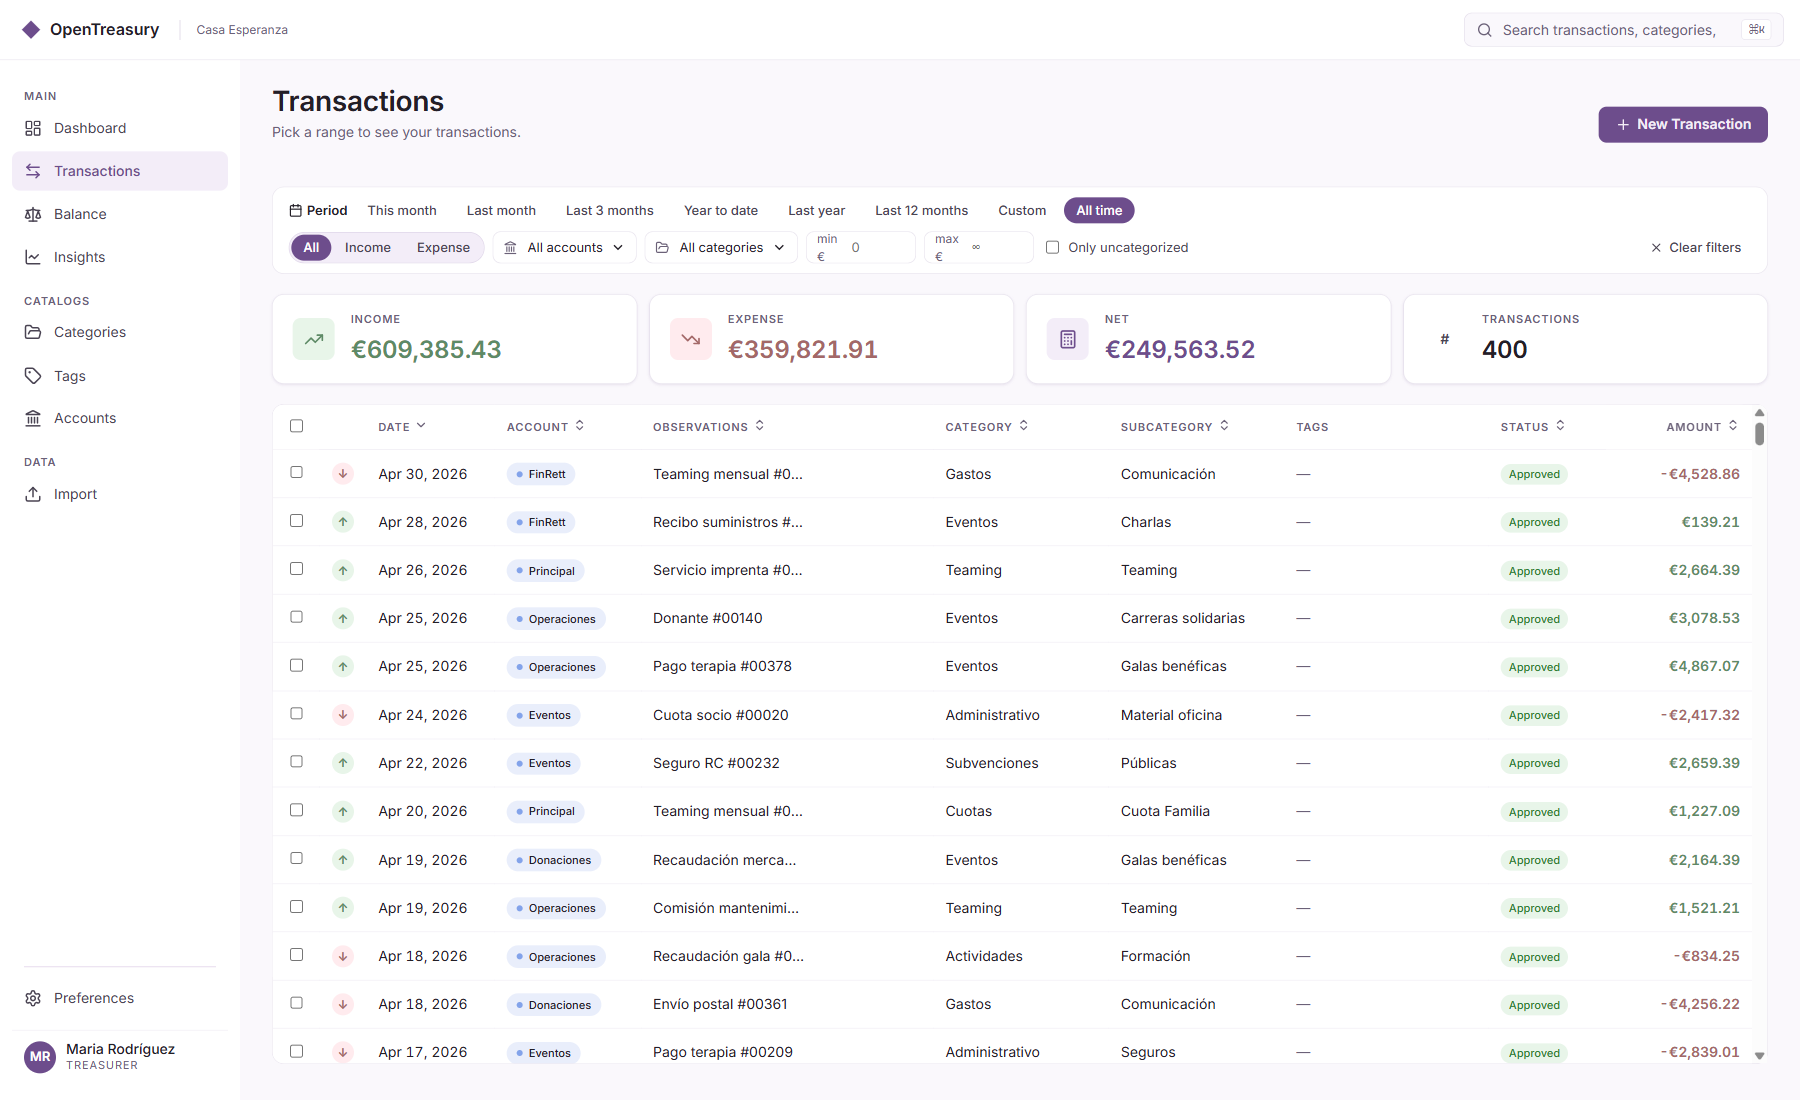
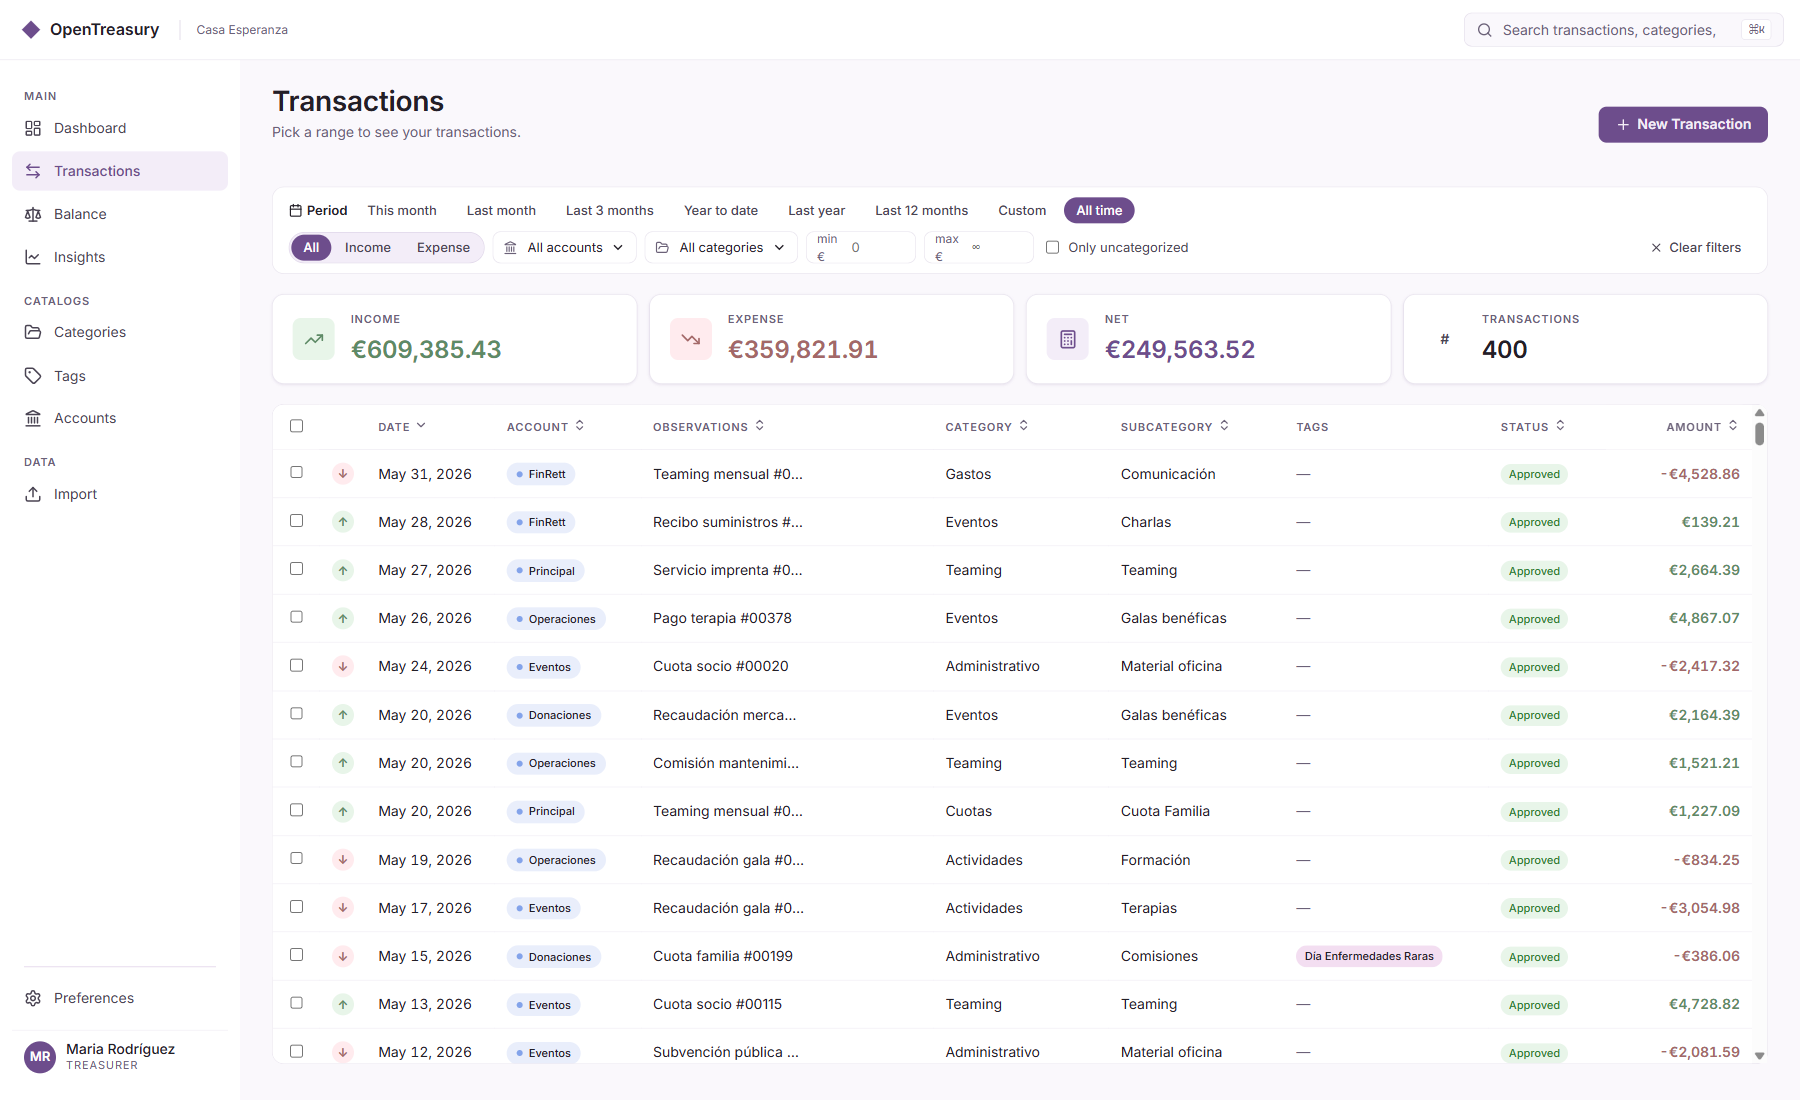
fix(e2e): seed current-month data and fix 'All time' locator in doc-shots
Two latent time-based bugs surfaced in May 2026 when the month crossed
the seed data cutoff (hardcoded 2026-04-30):

1. perf-seed.mjs hardcoded 2023-01-01..2026-04-30.  In May the default
   'this-month' filter showed 0 rows → movements-perf waitForSelector
   timed out.  Also: without an app-config.json the bootstrap shows the
   onboarding wizard (OT_DATA_DIR is ignored when dataDir===null), so
   .ot-shell__sidebar never appeared on fresh CI runners.

   Fix: generate dates up to the current month (dynamic SEED_END_YEAR /
   SEED_END_MONTH) so 'this-month' always has transactions.  Also write
   app-config.json pointing at the seeded folder so the bootstrap skips
   the onboarding gate.

2. doc-shots searched for button text /^(All|Todo)\$/ but the English
   'all' date-preset translates to 'All time', not 'All'.  The locator
   matched nothing → click timed out at the Movements step.

   Fix: update the regex to /^(All time|Todo)\$/ (EN + ES).

Regenerated guide screenshots (no visual regressions; the Movements
screenshot now shows the expected dataset under 'All time' filter).

diff --git a/tests/e2e/doc-shots.spec.ts b/tests/e2e/doc-shots.spec.ts
@@ -232,9 +232,10 @@ test.describe('doc-shots — illustrated end-user guide screenshots', () => {
       await page.waitForSelector('.ot-movements', { state: 'visible', timeout: 10_000 });
       // Default filter is "This month" which may have no data. Click the "All" preset
       // (locale-agnostic: button[role="radio"] is structurally stable).
+      // EN: "All time"  ES: "Todo"  — must match the actual i18n value.
       const allPresetBtn = page
         .locator('button[role="radio"]')
-        .filter({ has: page.locator('text=/^(All|Todo)$/i') });
+        .filter({ has: page.locator('text=/^(All time|Todo)$/i') });
       await allPresetBtn.click();
       await page.waitForTimeout(1000);
       // Now wait for data rows to appear
